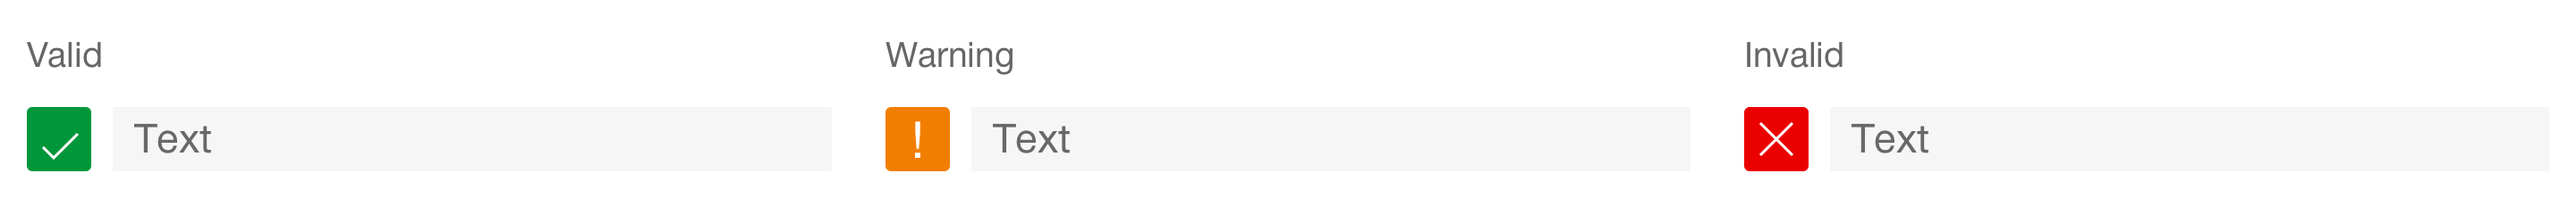
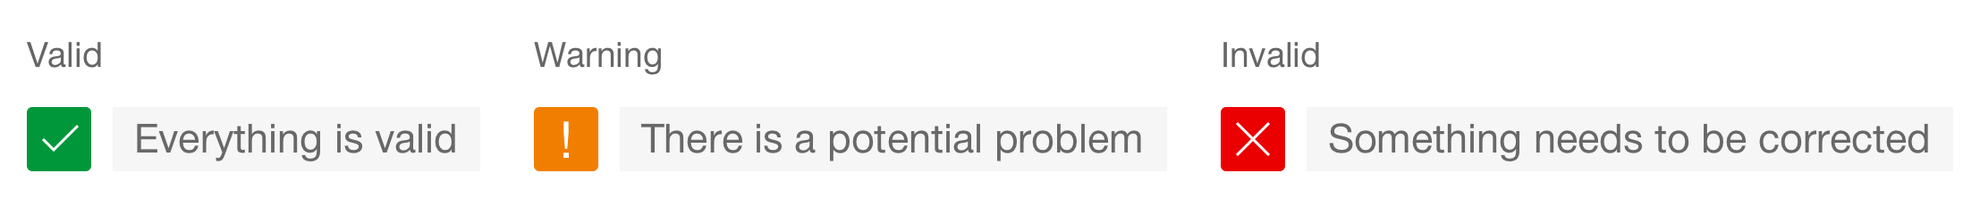
feat: add variant 'text' to component 'status' (#52)
Add new preview images with examples
Adapt documentation for new variant

diff --git a/documentation/components/status/status-en.md b/documentation/components/status/status-en.md
@@ -14,14 +14,21 @@
 The component has the following statuses:
 * Default
 
-### 4.1 Bubble
-![Example image of the status component in the bubble variant with icon only](https://raw.githubusercontent.com/sbb-design-systems/design-system-webapp-documentation/master/documentation/components/status/images/Status_Bubble.png 'class: image')
+### 4.1 Icon
+![Example image of the status component in the bubble variant with icon only](https://raw.githubusercontent.com/sbb-design-systems/design-system-webapp-documentation/master/documentation/components/status/images/Status_Icon.png 'class: image')
 * This variant serves as a space-saving variant which can be used, for example, in a table.
 
 #### Design specification
 * [Default](https://www.sketch.com/s/58b25e4c-bf9c-4f74-973f-503538fcbea2/a/JRAJOM#Inspector)
 
-### 4.2 Extended 
+### 4.2 Text 
+![Example image of the status component in the extended variant with text only](https://raw.githubusercontent.com/sbb-design-systems/design-system-webapp-documentation/master/documentation/components/status/images/Status_Text.png 'class: image')
+* This variant serves as a space-saving variant which can be used, for example, in a table when Icons are not self-explanatory.
+
+#### Design specification
+* [Default](https://www.sketch.com/s/58b25e4c-bf9c-4f74-973f-503538fcbea2/a/vjRQD1#Inspector)
+
+### 4.3 Extended 
 ![Example image of the status component in the extended variant with icon and text](https://raw.githubusercontent.com/sbb-design-systems/design-system-webapp-documentation/master/documentation/components/status/images/Status_Extended.png 'class: image')
 * This variant should mainly be used in the detailed view of an object.
 

diff --git a/documentation/components/status/status-de.md b/documentation/components/status/status-de.md
@@ -14,14 +14,21 @@
 Die Komponente hat folgende Zustände:
 * Default
 
-### 4.1 Bubble
-![Darstellung eines Beispiels der Komponente Status mit Icon](https://raw.githubusercontent.com/sbb-design-systems/design-system-webapp-documentation/master/documentation/components/status/images/Status_Bubble.png 'class: image')
+### 4.1 Icon
+![Darstellung eines Beispiels der Komponente Status mit Icon](https://raw.githubusercontent.com/sbb-design-systems/design-system-webapp-documentation/master/documentation/components/status/images/Status_Icon.png 'class: image')
 * Diese Ausprägung dient als platzsparende Variante, welche z.B. in einer Tabelle eingesetzt werden kann.
 
 #### Design Spezifikation
 * [Default](https://www.sketch.com/s/58b25e4c-bf9c-4f74-973f-503538fcbea2/a/JRAJOM#Inspector)
 
-### 4.2 Extended 
+### 4.2 Text 
+![Darstellung eines Beispiels der Komponente Status mit Text](https://raw.githubusercontent.com/sbb-design-systems/design-system-webapp-documentation/master/documentation/components/status/images/Status_Text.png 'class: image')
+* Diese Ausprägung dient als platzsparende Variante, welche z.B. in einer Tabelle eingesetzt werden kann, wenn Icons nicht selbsterklärend sind.
+
+#### Design Spezifikation
+* [Default](https://www.sketch.com/s/58b25e4c-bf9c-4f74-973f-503538fcbea2/a/vjRQD1#Inspector)
+
+### 4.3 Extended 
 ![Darstellung eines Beispiels der Komponente Status mit Icon und Text](https://raw.githubusercontent.com/sbb-design-systems/design-system-webapp-documentation/master/documentation/components/status/images/Status_Extended.png 'class: image')
 * Diese Ausprägung soll vor allem in der Detailansicht eines Objekts eingesetzt werden.
 
